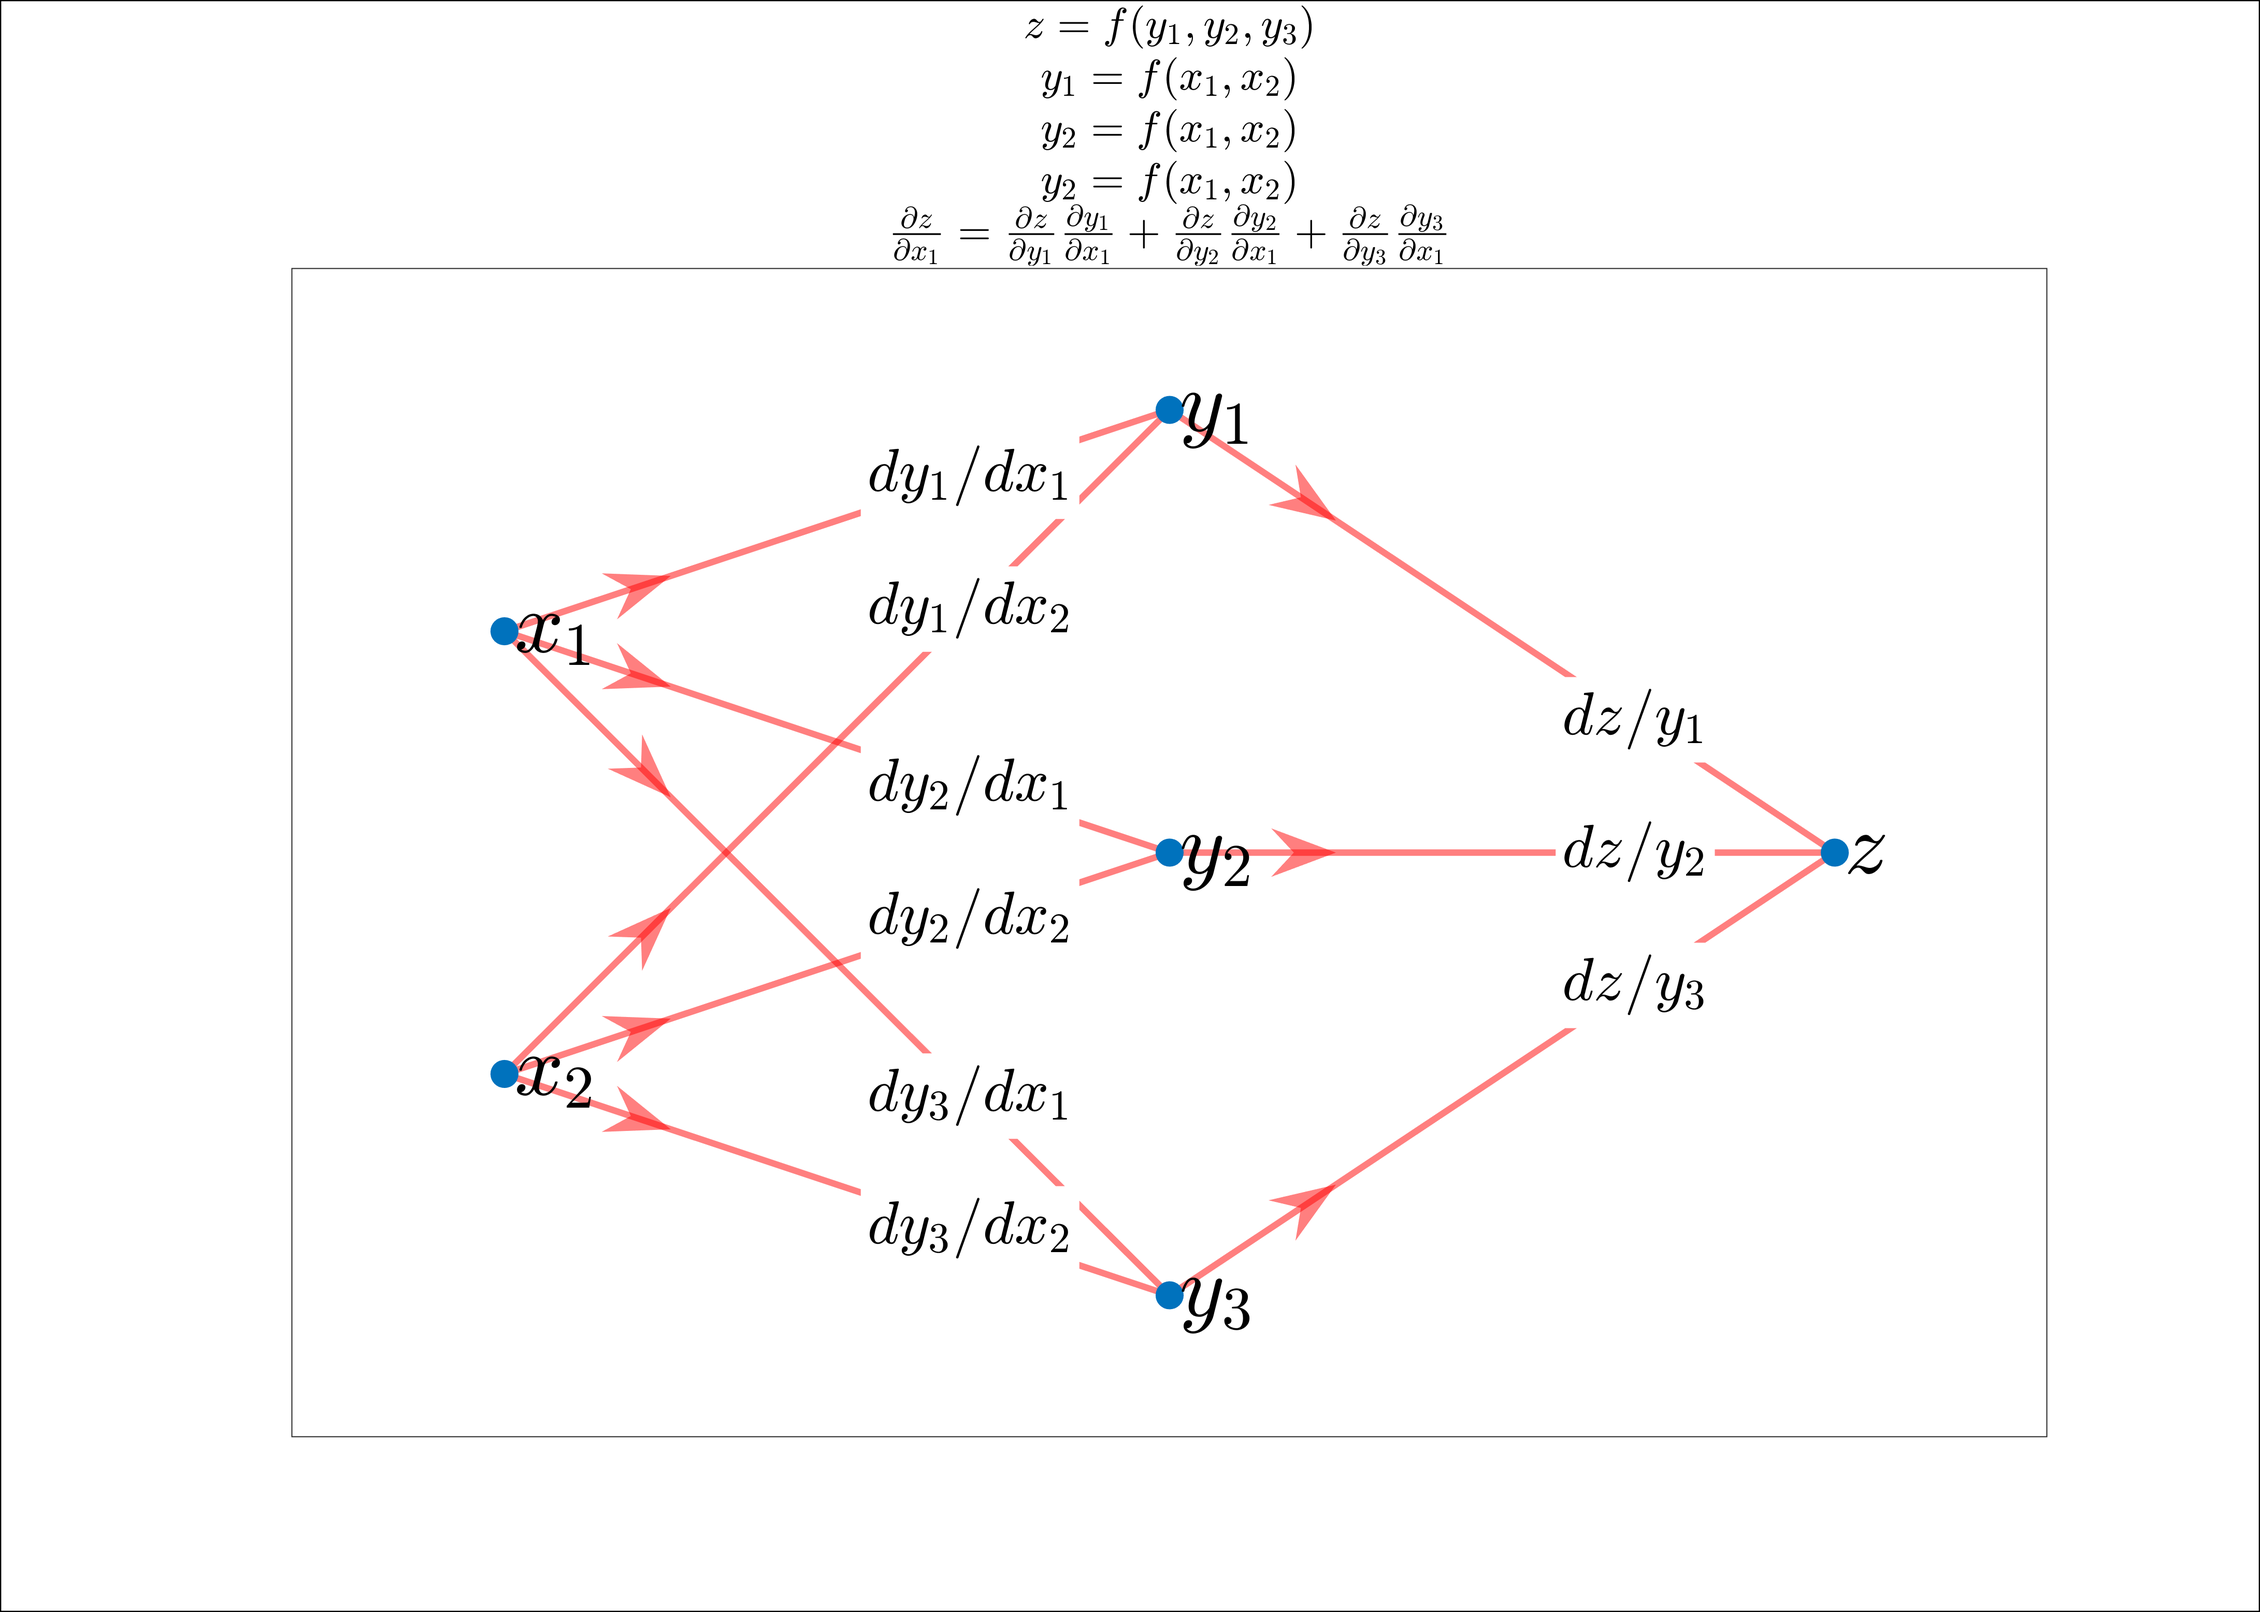
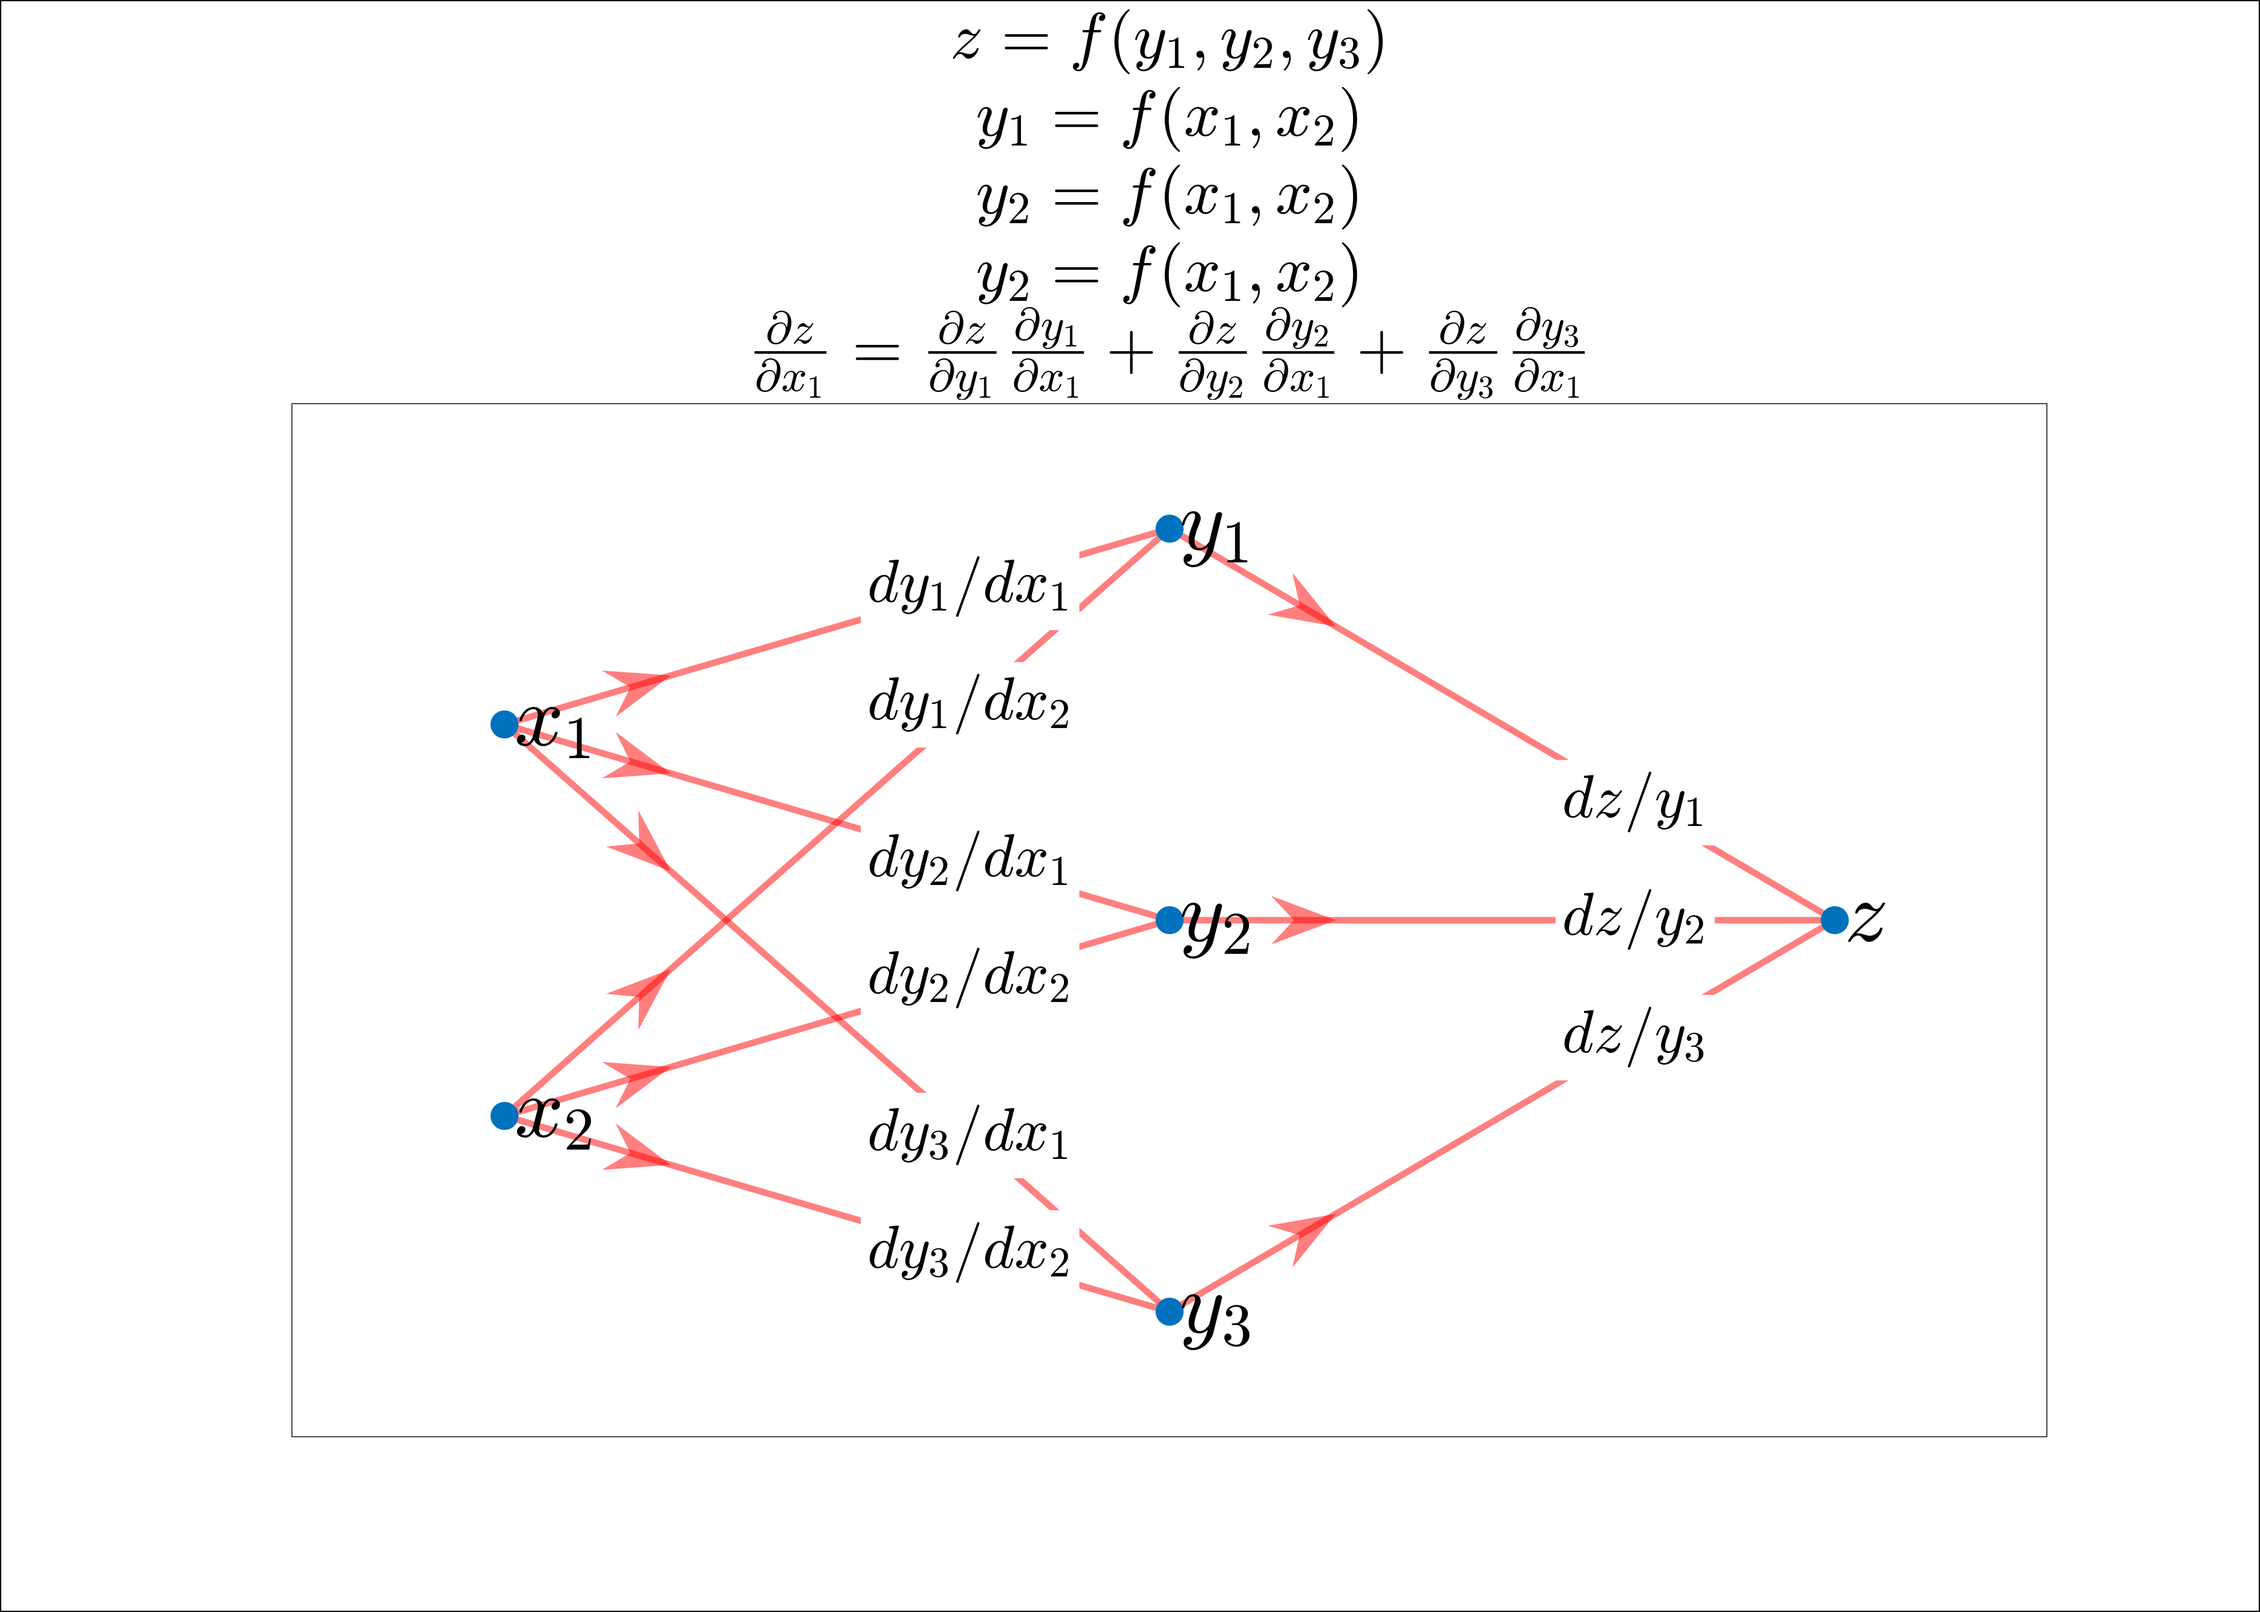
reverse differentiation II

diff --git a/MatlabScripts/ChainRuleGraph2.m b/MatlabScripts/ChainRuleGraph2.m
@@ -25,7 +25,7 @@ t3 = '$y_2=f(x_1,x_2)$';
 t4 = '$y_2=f(x_1,x_2)$';
 t5 = '$\frac{\partial{z}}{\partial{x_1}}= \frac{\partial{z}}{\partial{y_1}}\frac{\partial{y_1}}{\partial{x_1}}+ \frac{\partial{z}}{\partial{y_2}}\frac{\partial{y_2}}{\partial{x_1}}+ \frac{\partial{z}}{\partial{y_3}}\frac{\partial{y_3}}{\partial{x_1}}$';
 
-title({t1,t2,t3,t4,t5},'interpreter','latex','fontSize',20)
+title({t1,t2,t3,t4,t5},'interpreter','latex','fontSize',30)
 h = plot(G);
 h.MarkerSize=12;
 h.NodeFontSize=40;
